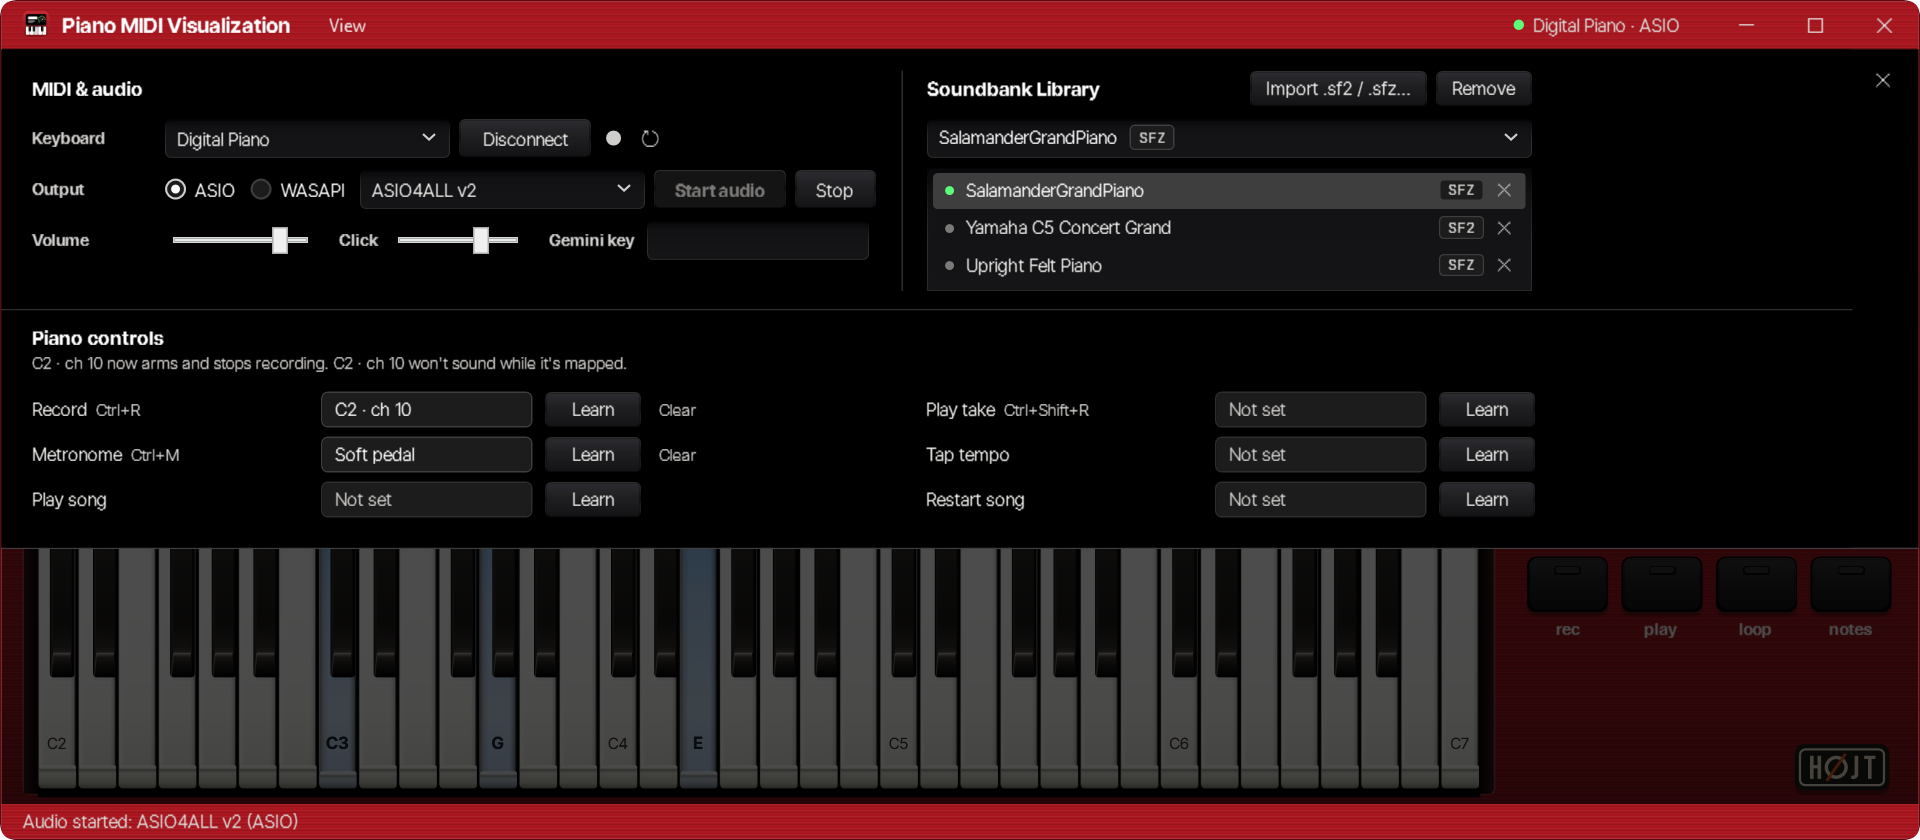
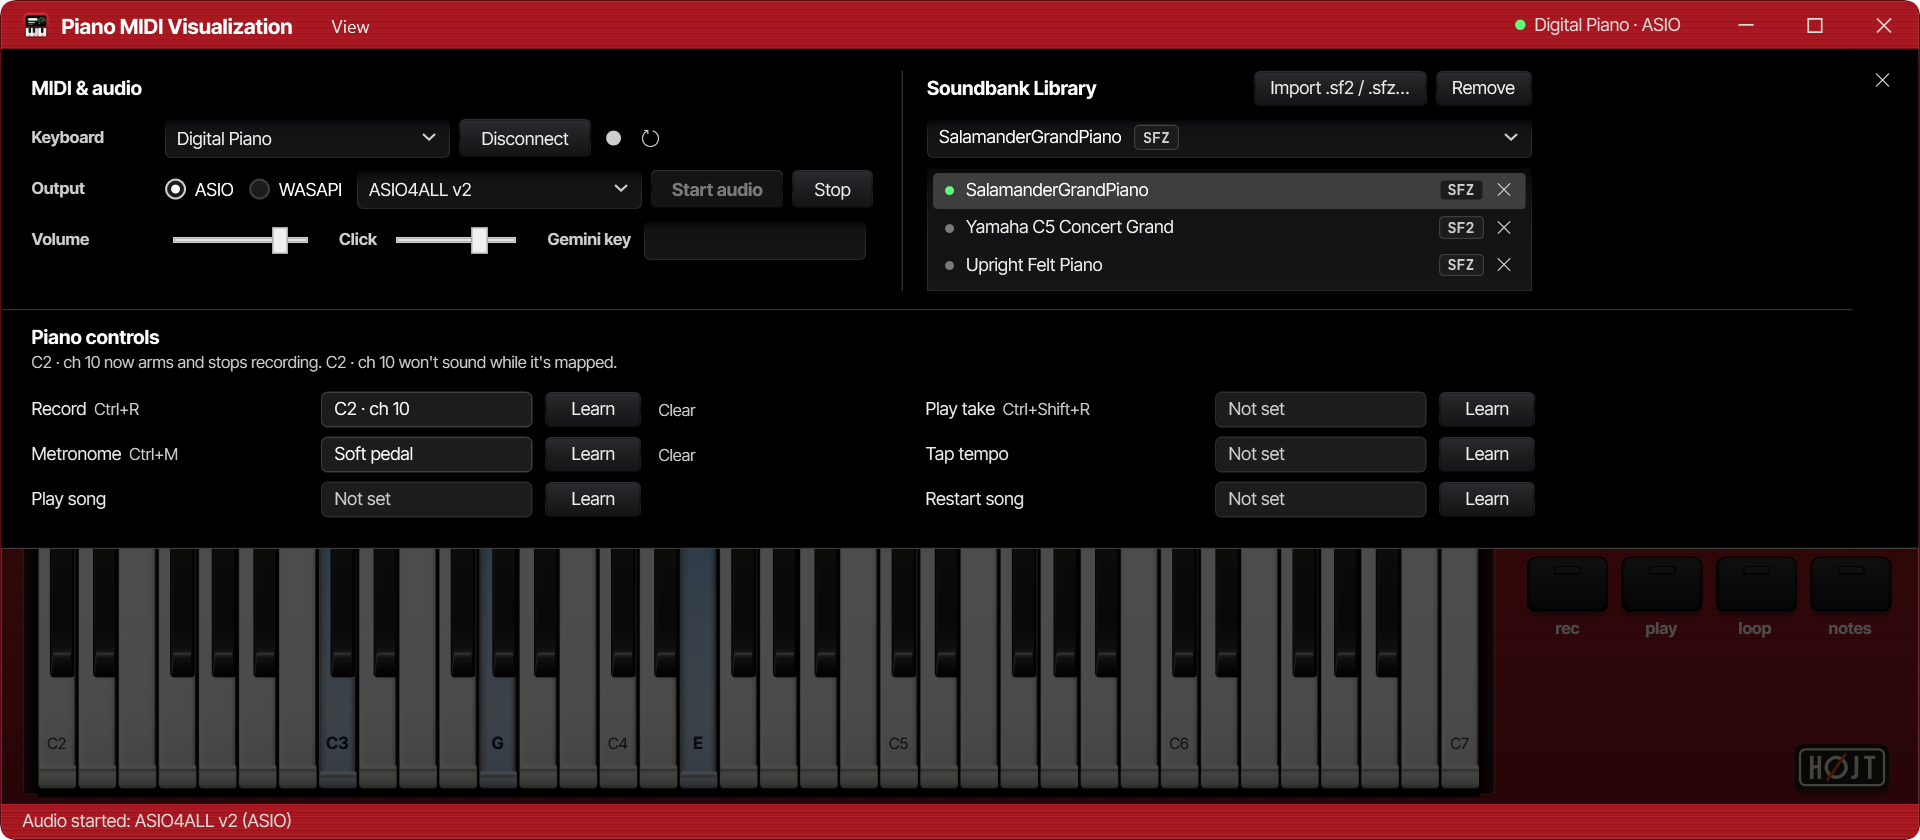
Piano viz: the six references re-rendered without Display text; drop the scratch step; DESIGN.md says only what the renders show
Claude-Session: https://claude.ai/code/session_01P9yWk23yGP65aDrY1VkJm9

diff --git a/piano/DESIGN.md b/piano/DESIGN.md
@@ -319,7 +319,7 @@ As in piano character, recoloured by the tokens: the status chip reads as a prin
 
 The six scenes of the screenshot harness (`tools/readme-screenshots/`) are the look's snapshot test, as the editors' snapshots are for the plugins (`ui/STYLE.md`): `--check` renders each from the real `MainWindow` and compares it with `site/piano/screenshots/<scene>.png`, and on a drift leaves `<scene>.new.png` and `<scene>.diff.png` beside it; CI keeps them as an artifact. A change to the look updates those references in the same pull request, after somebody has looked at the new pictures. The steps are in `AGENTS.md`, Snapshots.
 
-Text is crisp at 100% and 150%: the window sets `UseLayoutRounding` and Display text formatting, so 1px borders and the 11–14px legends sit on whole pixels. Text that a Viewbox scales (the chord readout, the keyboard) is set Ideal, and the HØJT badge keeps layout rounding off for its fractional geometry.
+The window sets `UseLayoutRounding`, which rounds layout to whole pixels; in the harness's 1.5x renders it moves edges by a pixel or two and leaves the text's sharpness and contrast as they were. The HØJT badge keeps it off for its fractional geometry. Text stays Ideal, WPF's default: Display formatting was tried and, in the harness's 1.5x renders, made the 11–14px legends softer, dimmer and unevenly spaced (#170).
 
 ## Do's and Don'ts
 
